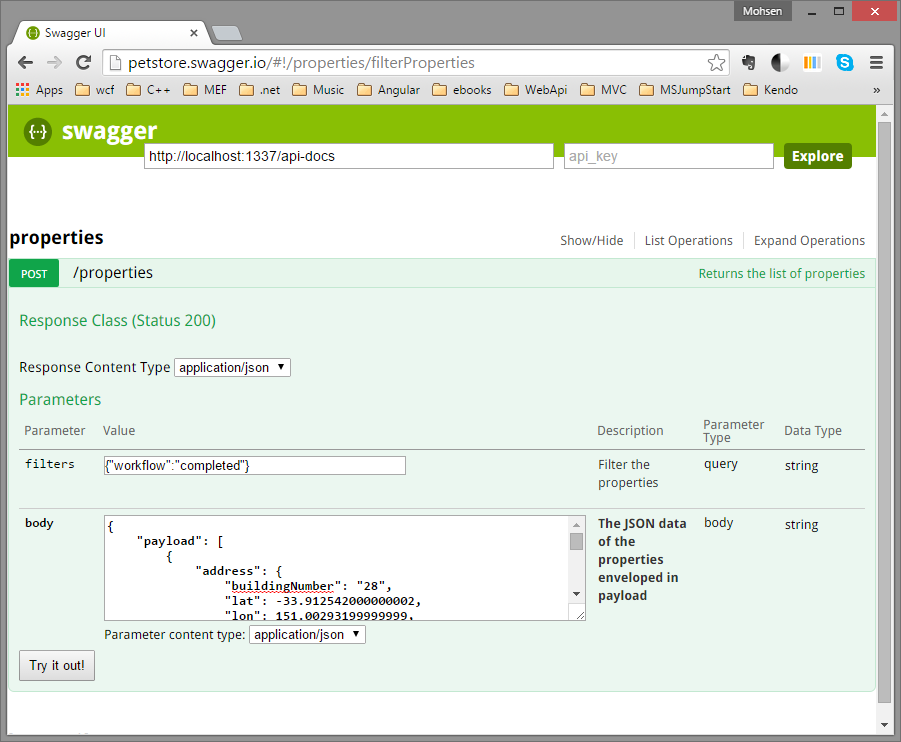
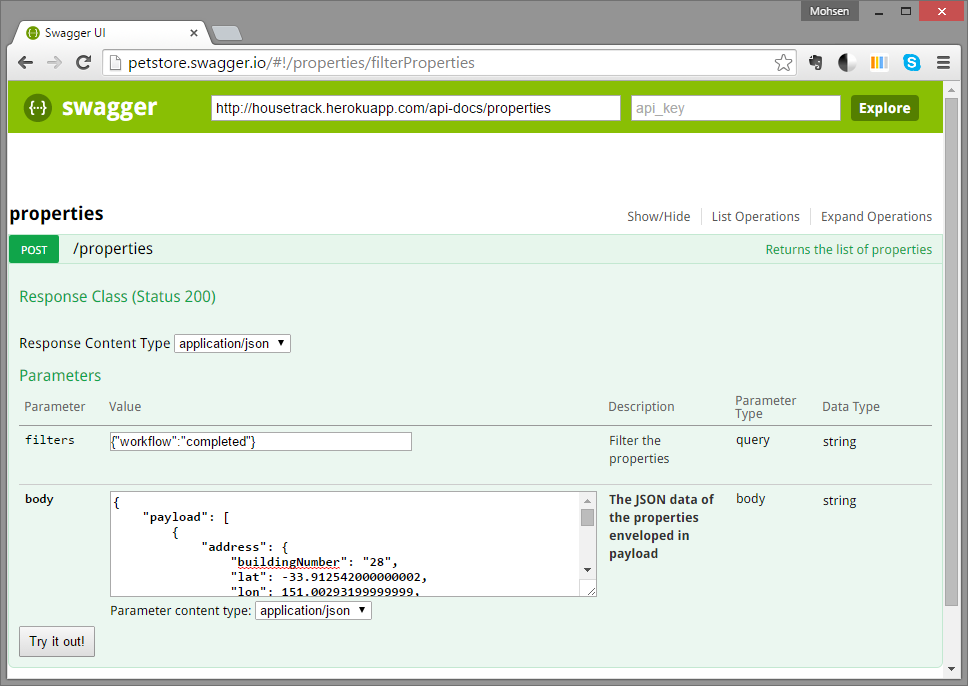
Fixing the swagger base path (removing port). Updating the images.

diff --git a/server.js b/server.js
@@ -58,7 +58,7 @@ swagger.addPost({
 });
 
 swagger.configureSwaggerPaths("", "/api-docs", "") 
-swagger.configure('http://housetrack.herokuapp.com' + process.env.PORT, '1.0.0')
+swagger.configure('http://housetrack.herokuapp.com', '1.0.0')
 
 console.log('Listening for Rest requests on: ' + process.env.PORT);
 server.listen(process.env.PORT || 9999);
